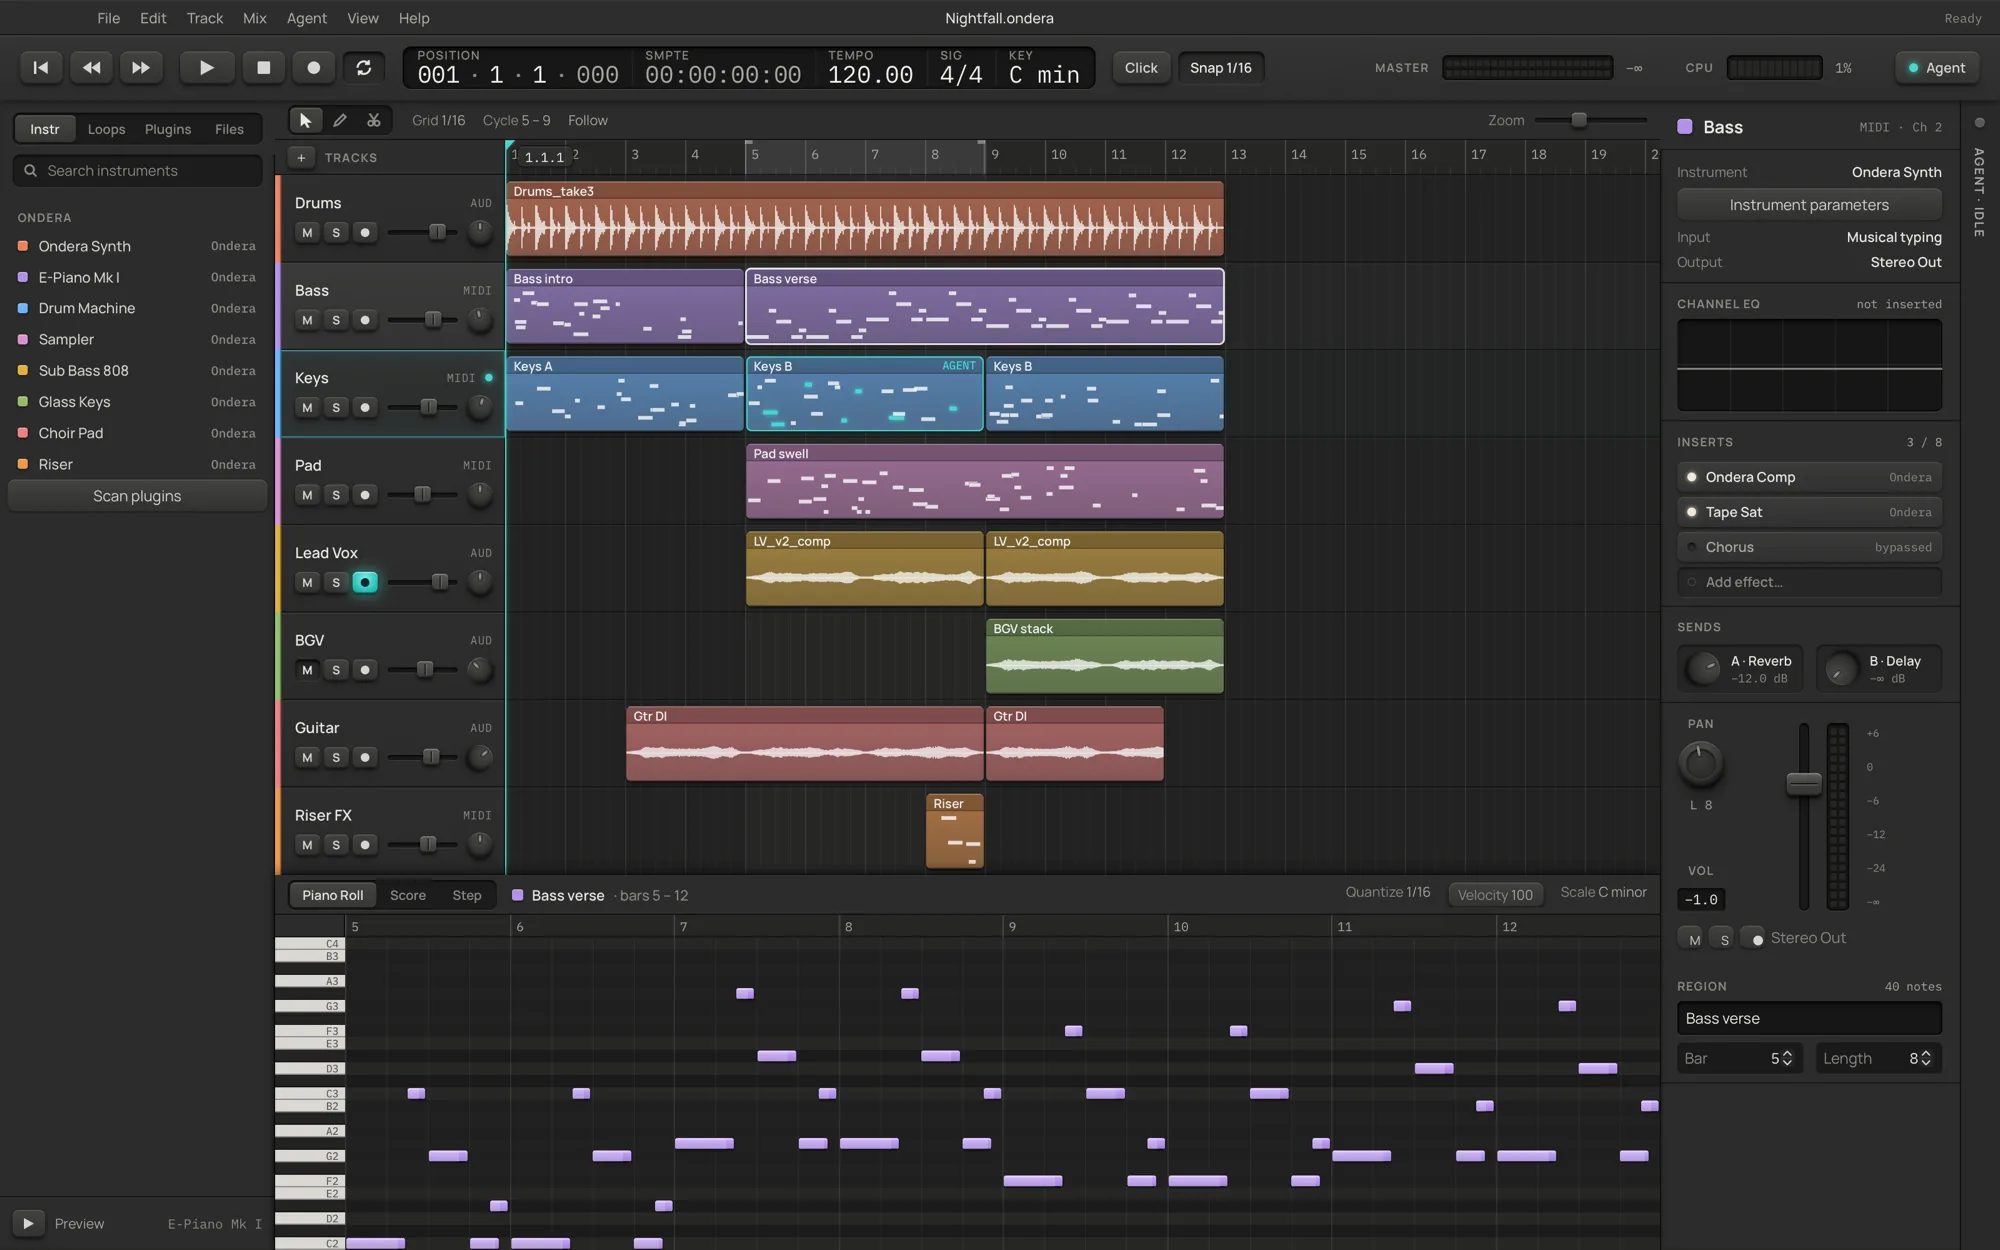
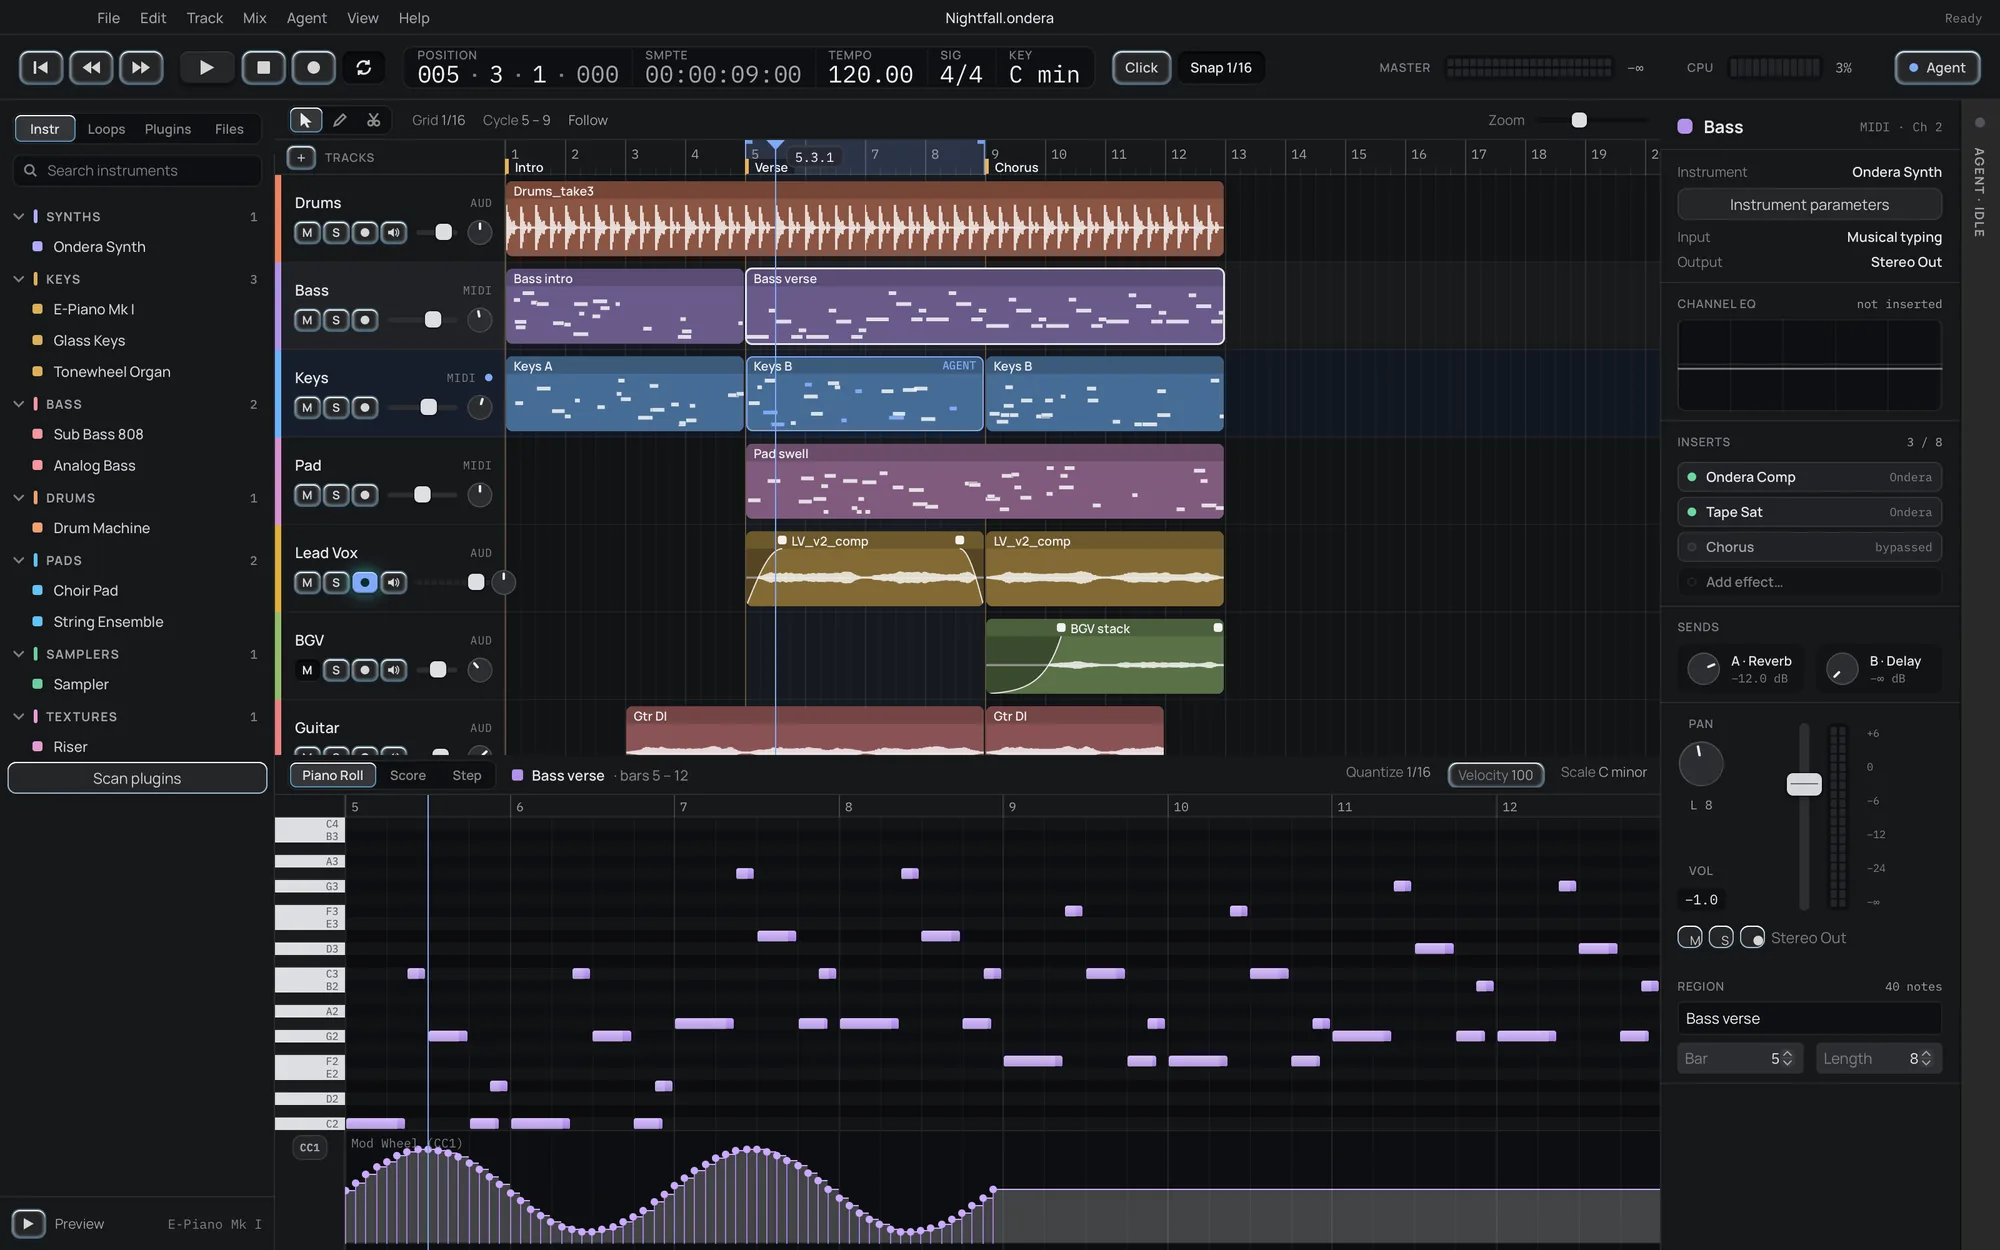
Keep a region's name clear of its fade handle, give the gain field room, retake the site capture

diff --git a/frontend/src/canvas/timeline.ts b/frontend/src/canvas/timeline.ts
@@ -369,7 +369,14 @@ function drawClip(
   ctx.textBaseline = "middle";
   ctx.textAlign = "left";
   ctx.fillStyle = cc(line.clipName);
-  ctx.fillText(clip.name, x + 6, y + titleH / 2 + 0.5, Math.max(0, w - 12));
+  const fades = fadesFor(clip, overlay);
+  const nameX = nameStart(ctx, clip.name, fades, x, w, selected, state);
+  ctx.fillText(
+    clip.name,
+    nameX,
+    y + titleH / 2 + 0.5,
+    Math.max(0, x + w - 6 - nameX),
+  );
   if (clip.agent && w > 70) {
     ctx.font = monoFont("kind", "medium");
     ctx.textAlign = "right";
@@ -381,7 +388,6 @@ function drawClip(
   // Content.
   const cy = y + titleH;
   const ch = h - titleH;
-  const fades = fadesFor(clip, overlay);
   if (fades) {
     drawAudioContent(ctx, clip, fades, x, cy, w, ch, state);
     drawFades(ctx, fades, x, y, w, h, selected, state);
@@ -404,6 +410,31 @@ function drawClip(
     roundRectPath(ctx, x - 0.25, y - 0.25, w + 0.5, h + 0.5, r);
     ctx.stroke();
   }
+}
+
+/**
+ * Where a clip's name starts: after the fade-in handle when that handle would sit on the
+ * name, so the two never overlap.
+ */
+export function nameStart(
+  ctx: Pick<CanvasRenderingContext2D, "measureText">,
+  name: string,
+  env: ReturnType<typeof clipEnvelope> | null,
+  x: number,
+  w: number,
+  selected: boolean,
+  state: Session,
+): number {
+  const start = x + 6;
+  if (!env || w < size.fadeHandle * 4) return start;
+  const fin = Math.min(w, env.fadeIn * pixelsPerSecond(state));
+  if (!selected && fin < 1 && env.fadeOut * pixelsPerSecond(state) < 1)
+    return start;
+  const hs = size.fadeHandle;
+  const left = Math.max(x + 1, Math.min(x + w - hs - 1, x + fin - hs / 2));
+  const end = start + ctx.measureText(name).width;
+  if (left + hs + 4 <= start || left - 4 >= end) return start;
+  return left + hs + 4;
 }
 
 /**

diff --git a/frontend/src/state/arrange.test.ts b/frontend/src/state/arrange.test.ts
@@ -12,7 +12,7 @@ import {
   FADE_CURVES,
   type Command,
 } from "@ondera/core";
-import { fadeHandleAt, markersWith } from "../canvas/timeline";
+import { fadeHandleAt, markersWith, nameStart } from "../canvas/timeline";
 import { markerAt } from "../canvas/markers";
 import { describeTool } from "../components/agent/toolSteps";
 import { size } from "../theme/tokens";
@@ -149,6 +149,22 @@ describe("audio clip fades and gain", () => {
     const half = Math.pow(10, -6 / 20);
     expect(envelopeAt(env, 0.5, 7)).toBeCloseTo(half * Math.SQRT1_2, 9);
     expect(envelopeAt(env, 3, 5)).toBeCloseTo(half, 9);
+  });
+  it("starts a clip's name after a fade-in handle that would cover it", () => {
+    const s = store.getState();
+    const clip = s.clips[0]!;
+    if (clip.data.kind !== "audio") throw new Error("audio");
+    const ctx = { measureText: (t: string) => ({ width: t.length * 6 }) };
+    const measure = ctx as unknown as CanvasRenderingContext2D;
+    const env = clipEnvelope(clip.data);
+    // 20 px a second: a 1 s fade puts the handle 20 px in, on a 60 px name.
+    const after = nameStart(measure, "LV_v2_comp", env, 80, 160, false, s);
+    expect(after).toBeGreaterThanOrEqual(80 + 20 + size.fadeHandle / 2);
+    // A name that ends before the handle stays where it was.
+    expect(nameStart(measure, "V", env, 80, 160, false, s)).toBe(86);
+    // No fades and not selected: no handles, no shift.
+    const none = { ...env, fadeIn: 0, fadeOut: 0 };
+    expect(nameStart(measure, "LV_v2_comp", none, 80, 160, false, s)).toBe(86);
   });
   it("finds the fade handles in the clip's title strip", () => {
     const s = store.getState();

diff --git a/site/index.html b/site/index.html
@@ -235,8 +235,8 @@
     <h2 class="reveal" id="shots-title">Not a mock-up. This is what you download.</h2>
     <div class="shots__grid">
       <figure class="shot reveal">
-        <img src="img/arrangement.webp" width="2000" height="1250" loading="lazy" decoding="async" alt="Ondera arrangement window: eight audio and MIDI tracks with waveforms, the piano roll below, browser on the left and channel inspector on the right">
-        <figcaption><b>Arrange and edit.</b> Real decoded waveforms, a piano roll with score and step views, and the channel strip always in reach.</figcaption>
+        <img src="img/arrangement.webp" width="2000" height="1250" loading="lazy" decoding="async" alt="Ondera arrangement window: Intro, Verse and Chorus markers on the ruler, audio regions with fade curves, the piano roll with a mod-wheel controller lane below, browser on the left and channel inspector on the right">
+        <figcaption><b>Arrange and edit.</b> Section markers, region fades, real decoded waveforms, a piano roll with a controller lane, and the channel strip always in reach.</figcaption>
       </figure>
       <figure class="shot reveal">
         <img src="img/mixer.webp" width="2000" height="1250" loading="lazy" decoding="async" alt="Ondera mixer: one channel strip per track with pan, fader, live meter, mute, solo and record arm, plus the master">

diff --git a/frontend/src/theme/native.css b/frontend/src/theme/native.css
@@ -409,7 +409,16 @@ textarea:focus-visible {
   gap: 6px;
 }
 .region-values label:has(select) {
-  width: 62%;
+  flex: 1 1 0;
+}
+.region-values label:has(input[aria-label="Region gain in dB"]) {
+  flex: 0 0 auto;
+  width: 40%;
+}
+.region-values input[aria-label="Region gain in dB"]::-webkit-inner-spin-button,
+.region-values input[aria-label="Region gain in dB"]::-webkit-outer-spin-button {
+  -webkit-appearance: none;
+  margin: 0;
 }
 .region-values select {
   width: 100%;
